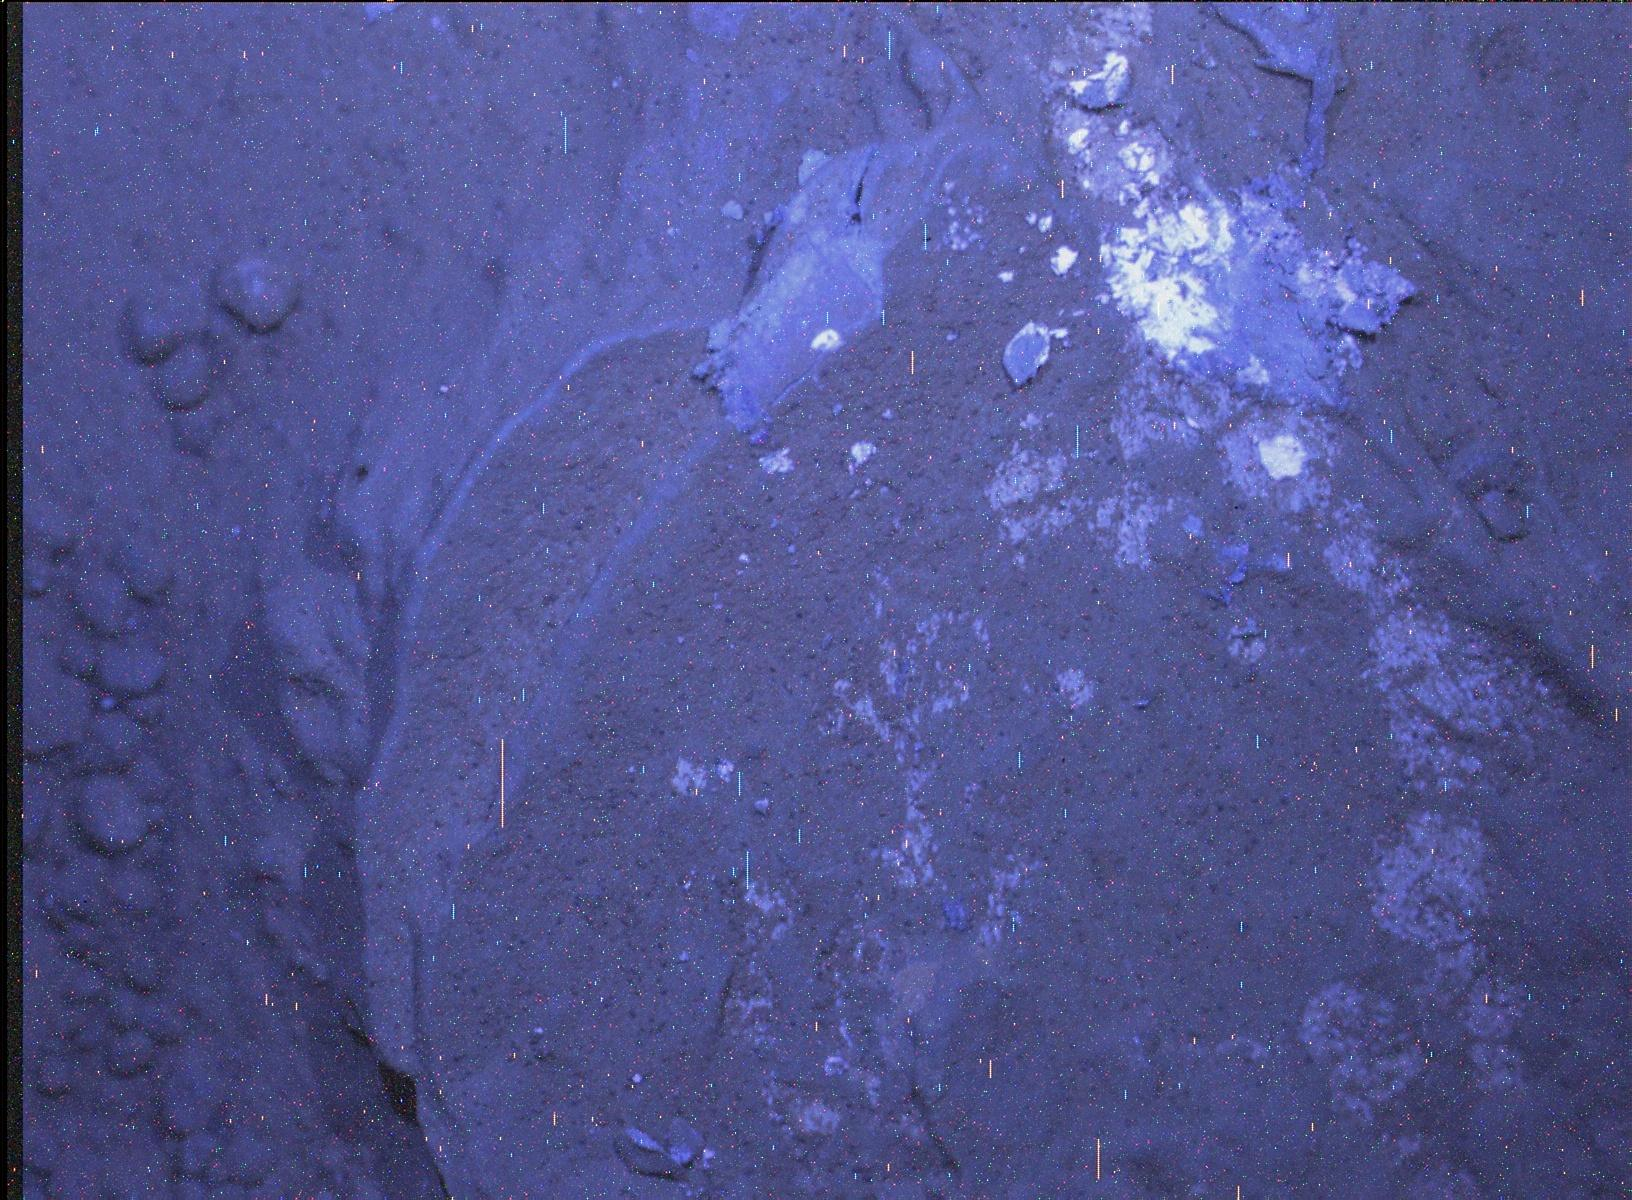
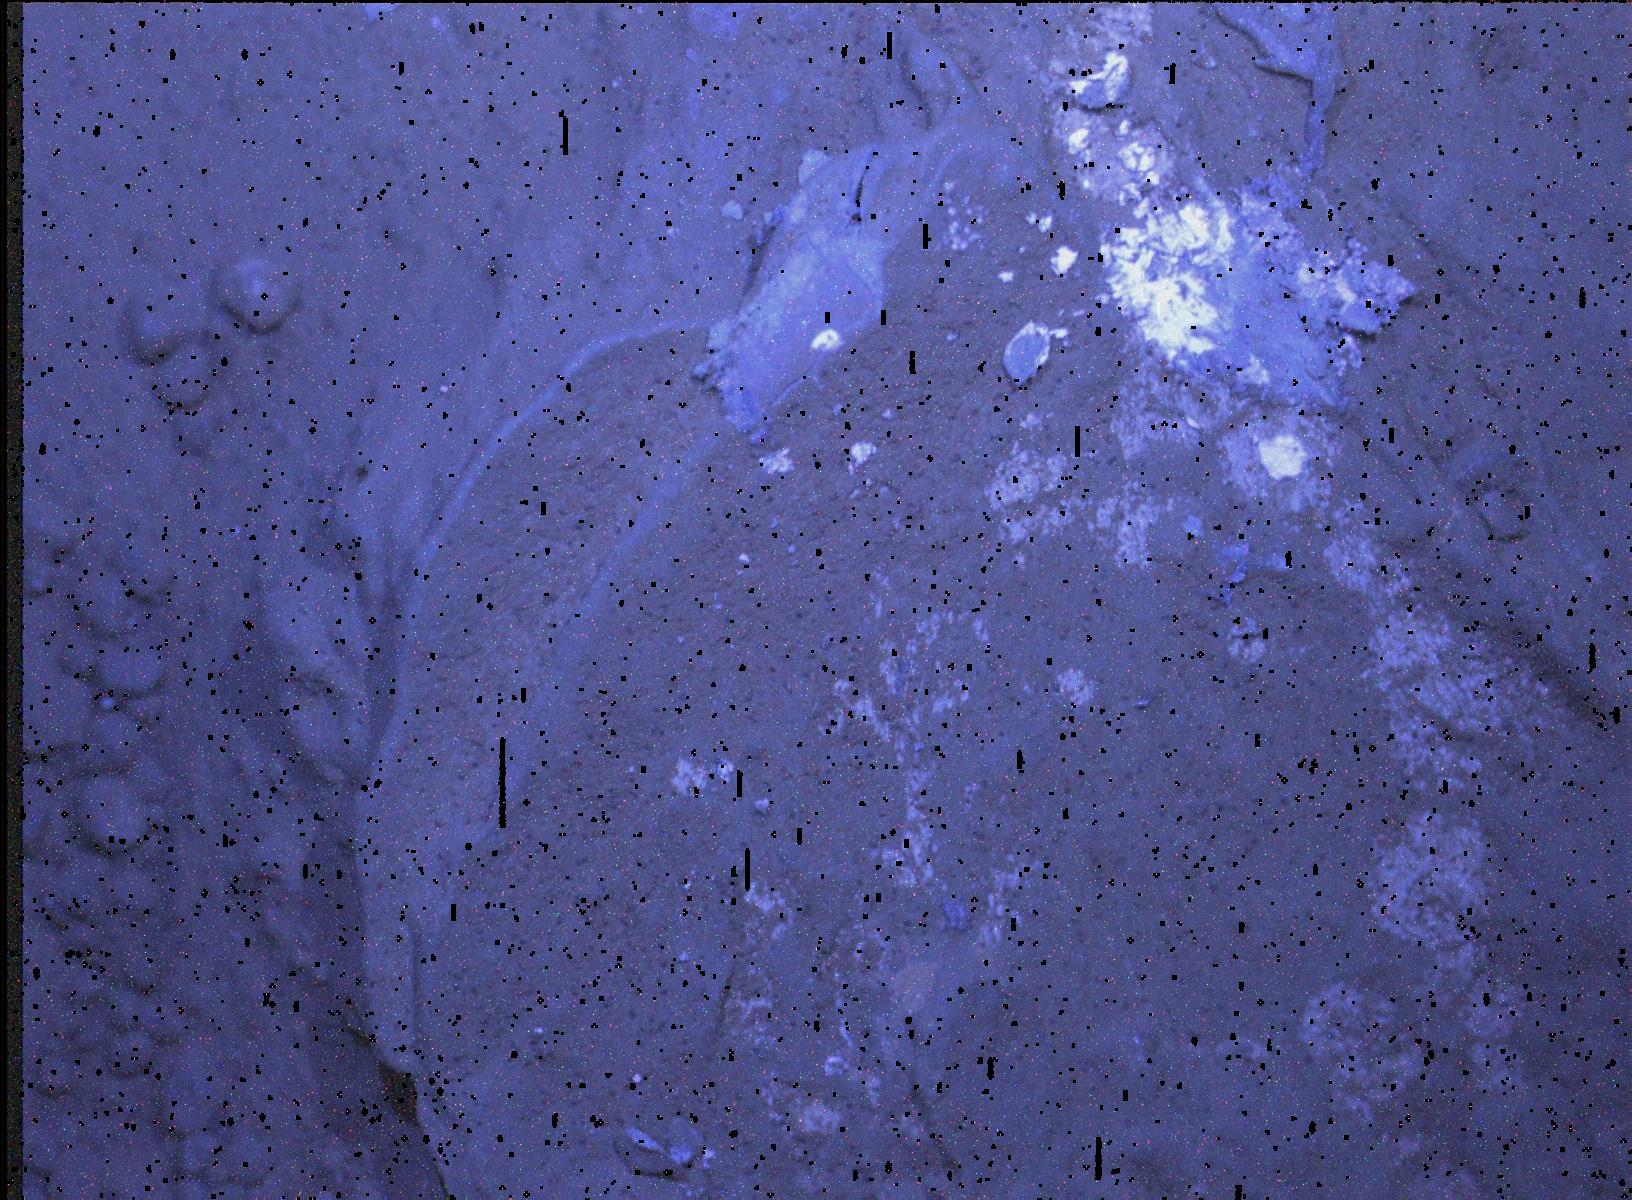
Starry night

diff --git a/Final/submission/final_vargas.m b/Final/submission/final_vargas.m
@@ -3,8 +3,10 @@
 
 % Clear everything
 clear
+% Tell user a message so that they know what is happening next.
+warning('Lets start... Open up the UV light visible JPG... thanks!', 'modal');
 % Lets get the image from the user
-[FileName,PathName] = uigetfile('*','Select the image file to apply transformation to.');
+[FileName,PathName] = uigetfile('*','Open the UV light RGB JPG.');
 
 blacklight_image_data = imread([PathName FileName]);
 
@@ -15,30 +17,58 @@ grayscale_blacklight_image_data = rgb2gray(blacklight_image_data);
 % Convert the uint to double to perform caluclations on the values.
 double_converted_blacklight_image_data = im2double(grayscale_blacklight_image_data);
 
-% I proceed to find the locations of anomalies, I will be using one channel
-% of the visible picture and one channel of the blacklight picture.
-
-% % Lets get the image from the user
-% [FileName,PathName] = uigetfile('*','Select the visible light image.');
-% 
-% visible_light_image_data = imread([PathName FileName]);
-% 
-% % Obtain sizes of image
-% [visible_image_rows, visible_image_columns, visible_number_of_channels] = size(visible_light_image_data);
-% % Conver the uint to double to perform caluclations on the values.
-% double_converted_visible_image_data = im2double(visible_light_image_data);
 
 % Apply a lapciaan filter so that we can detect the most likely locations
 % of the noise.
 % =========================
 % Create the filter.
-default_laplacian_filter = fspecial('laplacian');
+default_laplacian_filter = fspecial('laplacian', 0.1);
 % Apply filter to the red channel of the original image.
 blacklight_filter_out = imfilter(double_converted_blacklight_image_data, default_laplacian_filter, 'replicate');
-% I get an image with mostly the noise, so save it ino JPEG
+% I get an image with mostly the noise
 % ========
-% Covnert the data into uint8 for image saving.
-integer_filter_result_image = im2uint8(blacklight_filter_out);
+% Now I apply a dilation operation to make the noise more clear.
+dilation_structural_element = strel('square', 3);
+dilated_noise_result = imdilate(blacklight_filter_out, dilation_structural_element);
+% Tell user a message so that they know what is happening next.
+warning('Up next... save the image of the noise only as JPG, please choose where you want to save it.');
+% Convert the data into uint8 for image saving and other processing
+integer_dilated_filter_result_image = im2uint8(dilated_noise_result);
 [save_filename, save_path] = uiputfile({'*.jpg*', 'JPG' }, 'Save Noise Only Image');
 % Save it
-imwrite(integer_filter_result_image, [save_path save_filename]);
+imwrite(integer_dilated_filter_result_image, [save_path save_filename], 'jpg');
+
+% Tell user a message so that they know what is happening next.
+warning('Up next... navigate to open the star night sky of mars image in JPG format.');
+% I now open the star only image to apply noise cleansing to it.
+[FileName, PathName] = uigetfile('*','Select the starry night image file.');
+% Store the data in a matrix.
+starry_night_image_data = imread([PathName FileName]);
+% Convert to double precision  for calculations.
+double_converted_starry_night_data = im2double(starry_night_image_data);
+
+
+% Now I expand the noise to be binary to delete the noise pixels
+binary_noise_result = im2bw(dilated_noise_result, 0.35);
+% Convert binary to uint8 to remove the noise from the RGB image.
+integer_converted_binary_noise_result = im2uint8(binary_noise_result);
+% I start with the starry night image
+% I create an empty matrix with n channels to store the substraction in RGB
+noise_substracted_starry_night_rgb = zeros(blacklight_image_rows, blacklight_image_columns, blacklight_number_of_channels);
+% Substract the noise out of the starry night image channel by channel.
+for channel = 1:blacklight_number_of_channels
+    noise_substracted_starry_night_rgb(:, :, channel) = double_converted_starry_night_data(:, :, channel) - binary_noise_result;
+end
+% Convert the data into uint8 for image saving.
+% Tell user a message so that they know what is happening next.
+warning('Up next... save the starry night sky without noise that was just created as a JPG. Please choose a name!');
+integer_converted_noise_substracted_starry_night_rgb = im2uint8(noise_substracted_starry_night_rgb);
+[save_filename, save_path] = uiputfile({'*.jpg*', 'JPG' }, 'Save the starry night JPG');
+% Save it
+imwrite(integer_converted_noise_substracted_starry_night_rgb, [save_path save_filename], 'jpg');
+
+
+% ===========================================
+% Remove the noise now from the image of the UV light.
+
+
